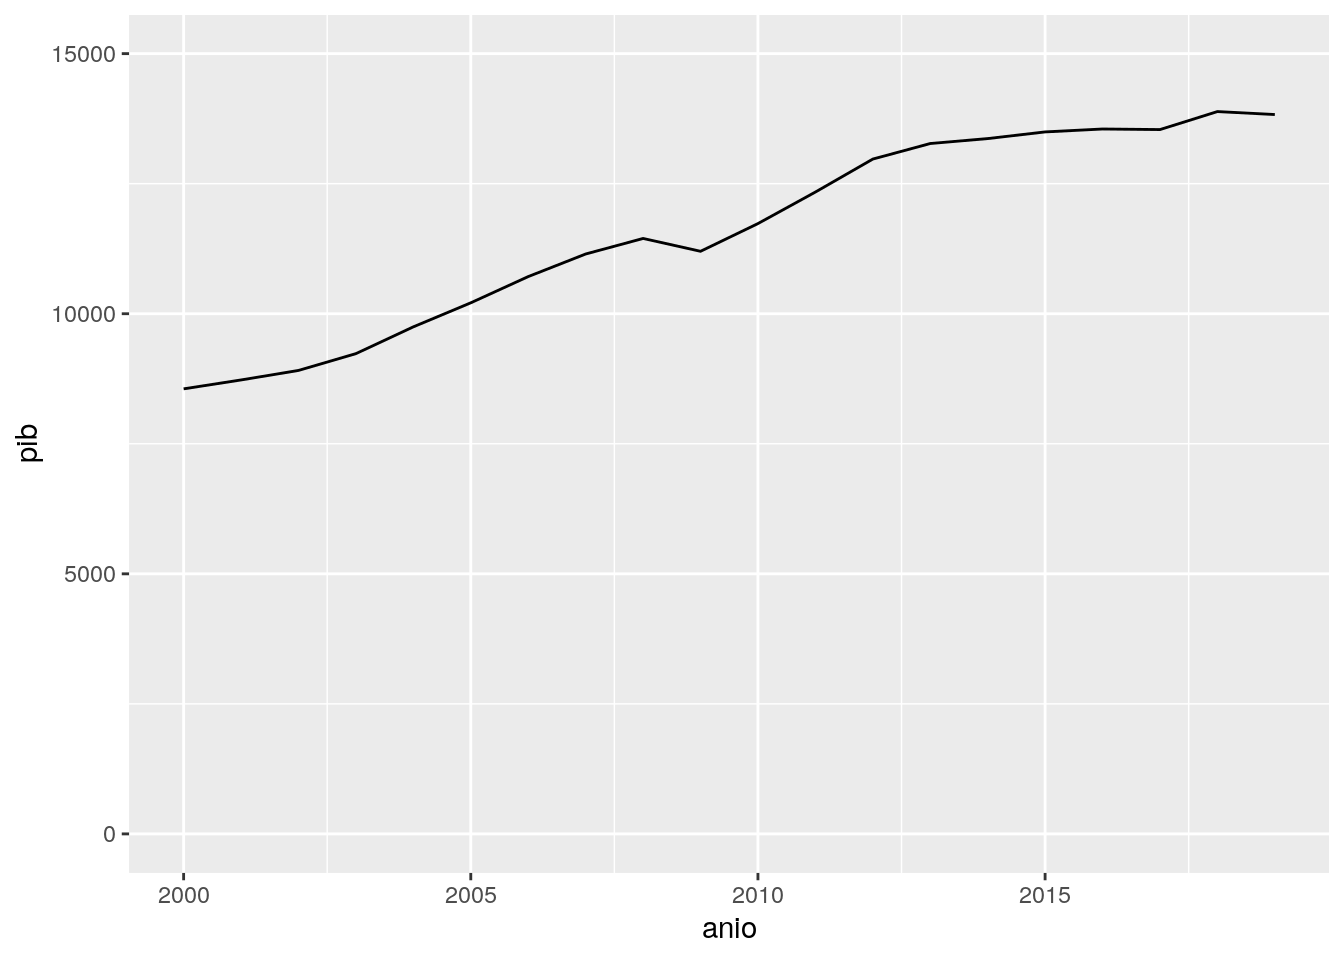
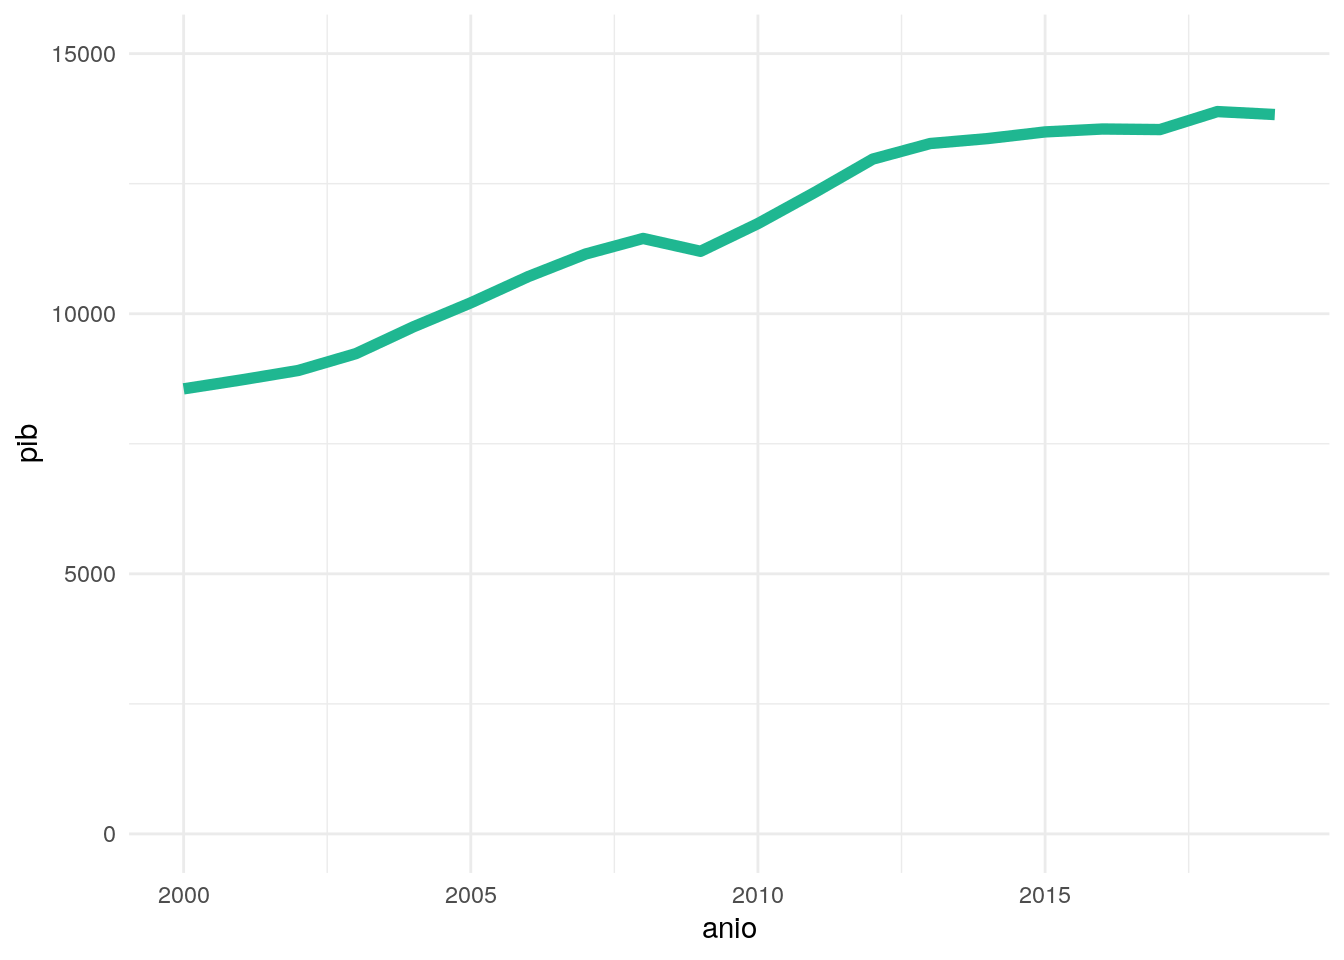
edita gráfico

diff --git a/productos/primer-documento.html b/productos/primer-documento.html
@@ -133,8 +133,9 @@ code span.wa { color: #60a0b0; font-weight: bold; font-style: italic; } /* Warni
 <p>Estos son datos sobre Chile para las variables población, pib per cápita y esperanza de vida entre los años 2000 y 2019.</p>
 <div class="cell">
 <div class="sourceCode cell-code" id="cb2"><pre class="sourceCode r code-with-copy"><code class="sourceCode r"><span id="cb2-1"><a href="#cb2-1" aria-hidden="true" tabindex="-1"></a><span class="fu">ggplot</span>(desarrollo, <span class="fu">aes</span>(<span class="at">x =</span> anio, <span class="at">y =</span> pib)) <span class="sc">+</span></span>
-<span id="cb2-2"><a href="#cb2-2" aria-hidden="true" tabindex="-1"></a>  <span class="fu">geom_line</span>() <span class="sc">+</span></span>
-<span id="cb2-3"><a href="#cb2-3" aria-hidden="true" tabindex="-1"></a>  <span class="fu">scale_y_continuous</span>(<span class="at">limits =</span> <span class="fu">c</span>(<span class="dv">0</span>, <span class="dv">15000</span>))</span></code><button title="Copy to Clipboard" class="code-copy-button"><i class="bi"></i></button></pre></div>
+<span id="cb2-2"><a href="#cb2-2" aria-hidden="true" tabindex="-1"></a>  <span class="fu">geom_line</span>(<span class="at">size =</span> <span class="dv">2</span>, <span class="at">color =</span> <span class="st">"#1fb791"</span>) <span class="sc">+</span></span>
+<span id="cb2-3"><a href="#cb2-3" aria-hidden="true" tabindex="-1"></a>  <span class="fu">scale_y_continuous</span>(<span class="at">limits =</span> <span class="fu">c</span>(<span class="dv">0</span>, <span class="dv">15000</span>)) <span class="sc">+</span></span>
+<span id="cb2-4"><a href="#cb2-4" aria-hidden="true" tabindex="-1"></a>  <span class="fu">theme_minimal</span>()</span></code><button title="Copy to Clipboard" class="code-copy-button"><i class="bi"></i></button></pre></div>
 <div class="cell-output-display">
 <p><img src="primer-documento_files/figure-html/unnamed-chunk-2-1.png" class="img-fluid" width="672"></p>
 </div>

diff --git a/productos/README.md b/productos/README.md
@@ -2,4 +2,4 @@
 
 Aquí vamos a guardar los informes en Quarto y las presentaciones.
 
-Primer ejemplo de reporte con Quarto: https://rivaquiroga.github.io/clases-let0010/productos/primer-documento.html
+Primer ejemplo de reporte con Quarto: <https://rivaquiroga.github.io/clases-let0010/productos/primer-documento.html>
